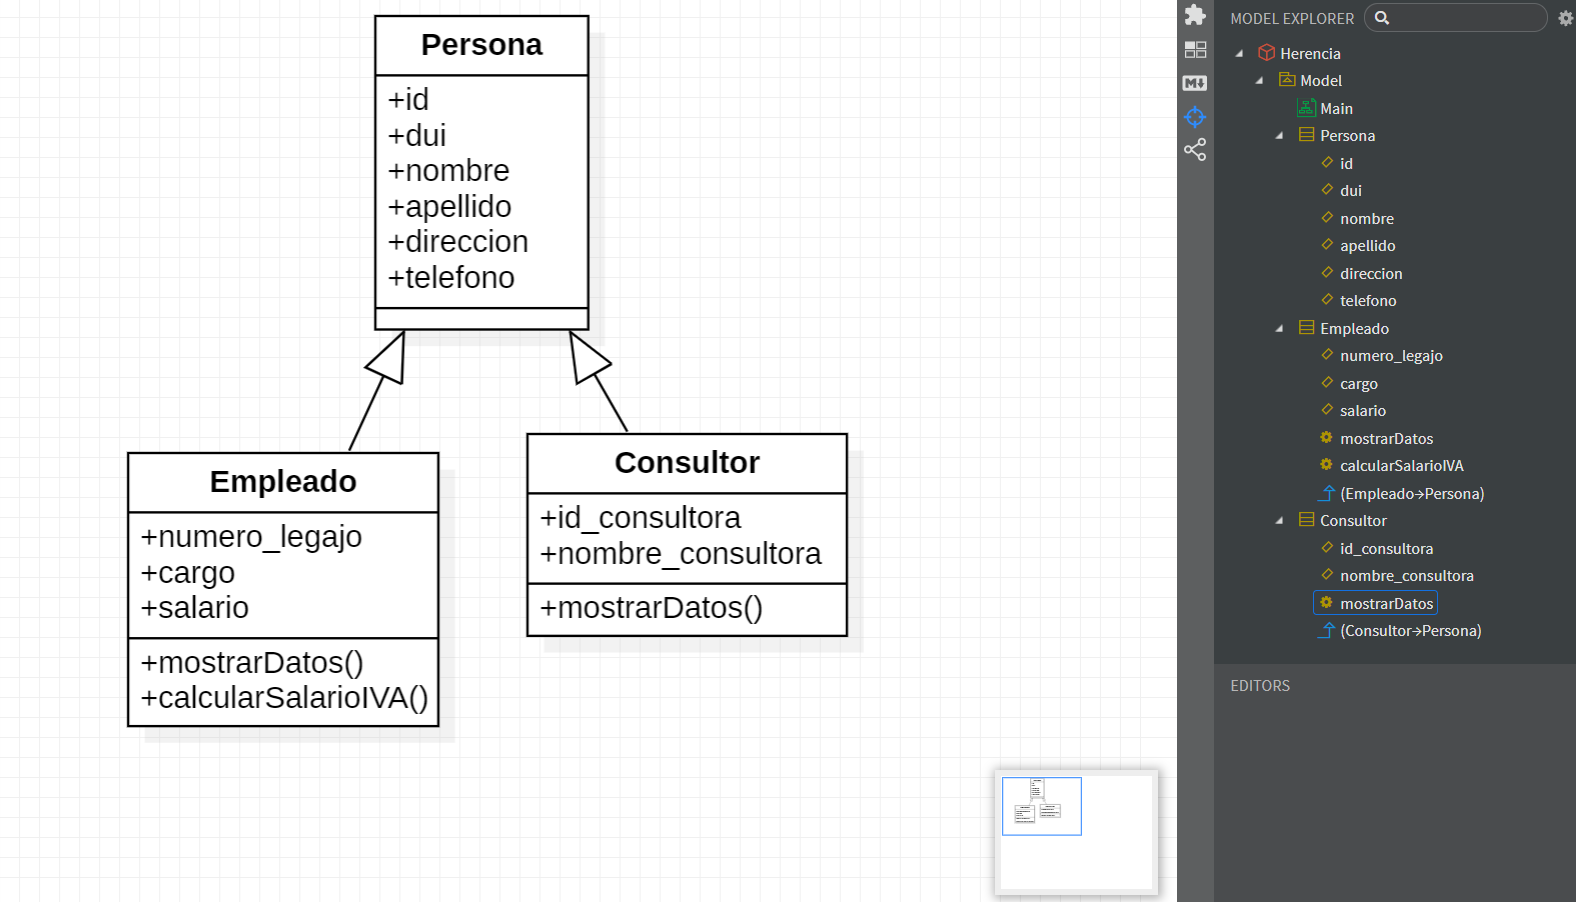
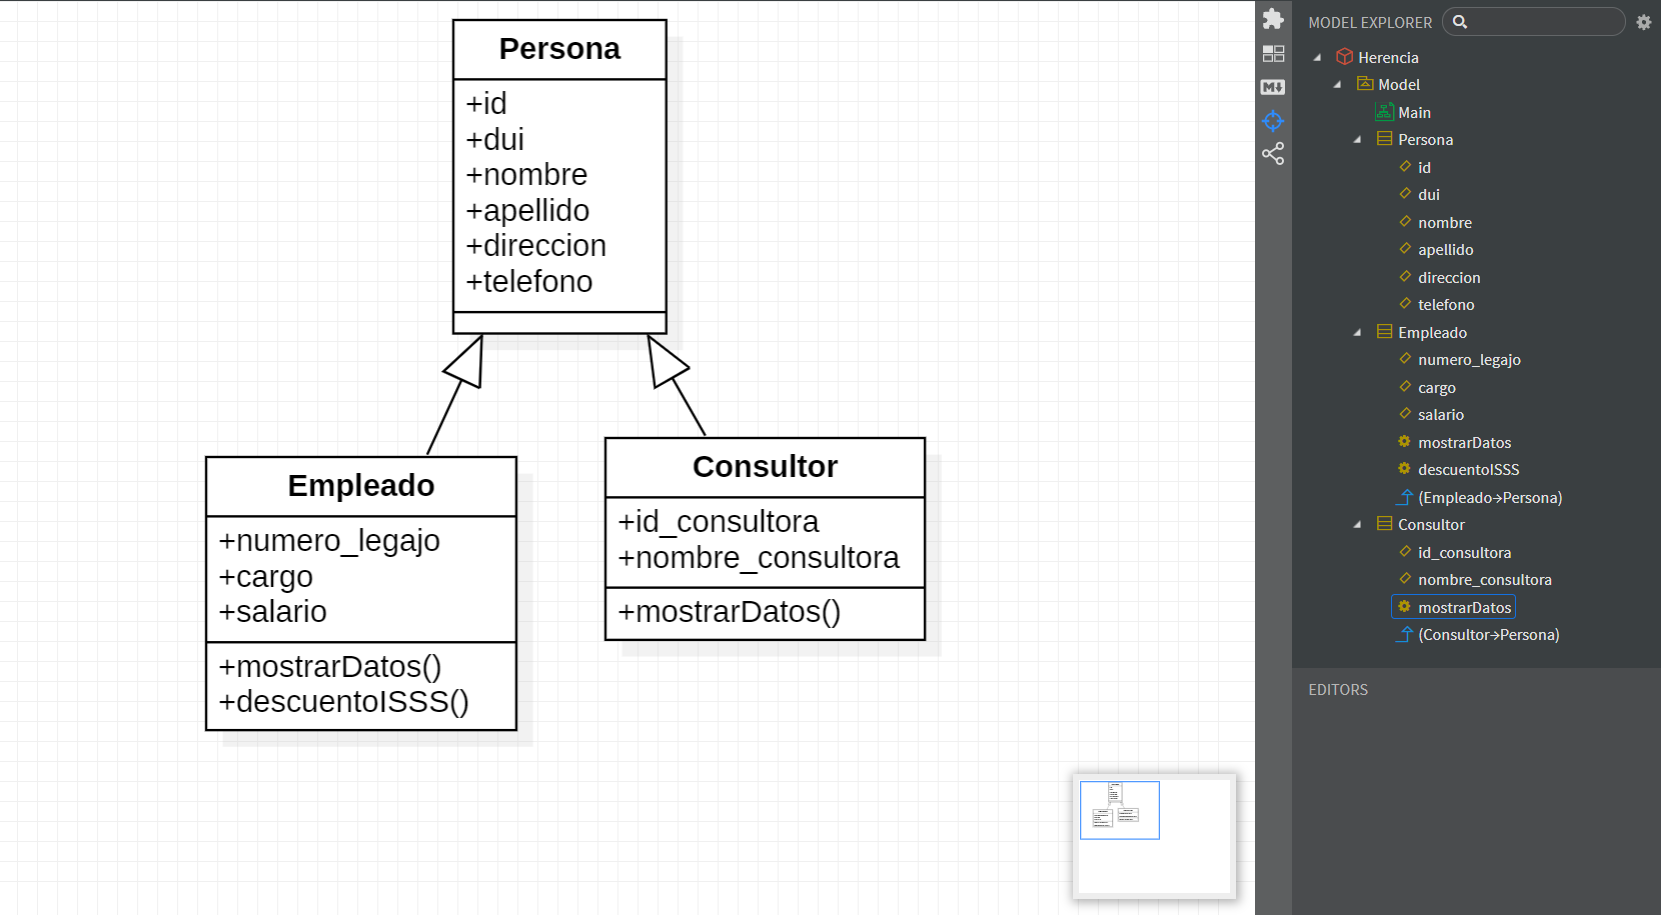
fix: ajuste de metodo en descuento

diff --git a/src/Main.java b/src/Main.java
@@ -61,7 +61,7 @@ public class Main {
         empleado.setCargo(scanner.nextLine());
         System.out.println("Ingresa el salario:");
         empleado.setSalario(scanner.nextDouble());
-        System.out.println("Desea calcular el salrio con descuento de IVA [S/N]: ");
+        System.out.println("Desea agregar decuento de ISSS [S/N]: ");
         calcularSalario = scanner.next();
 
         // verificar si desdea calcular el salario con descuento de IVA
@@ -117,7 +117,7 @@ public class Main {
         tipoSeleccion = tipoSeleccion.toUpperCase();
 
         if(tipoSeleccion.equals("S")){
-            return empleado.carcularSalarioIVA(empleado.getSalario());
+            return empleado.descuentoISSS(empleado.getSalario());
         }else{
             return empleado.getSalario();
         }

diff --git a/src/herencia/Empleado.java b/src/herencia/Empleado.java
@@ -43,9 +43,9 @@ public class Empleado extends Persona{
         System.out.println("Salario neto: " + salarioCalculado);
     }
 
-    public double carcularSalarioIVA(double salario){
-        final double IVA = 13; // El IVA equivale al 13%
-        double descuento = salario * (IVA / 100);
+    public double descuentoISSS(double salario){
+        final double ISSS = 7.5; // El valor del ISSS equivale el 7.5%
+        double descuento = salario * (ISSS / 100);
         return salario - descuento;
     }
 
